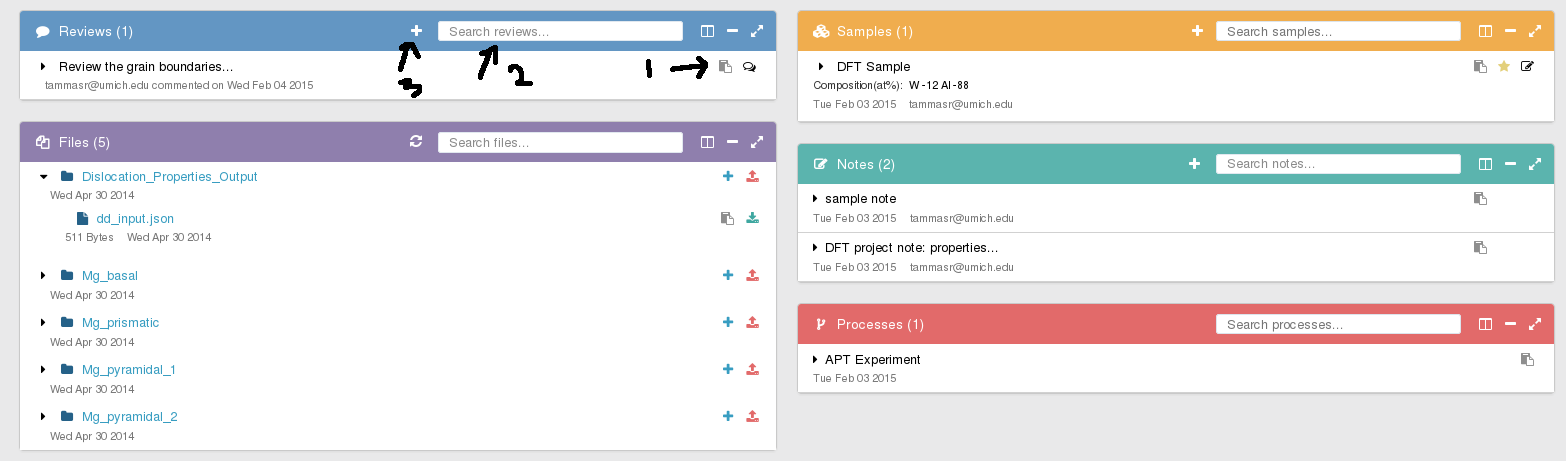
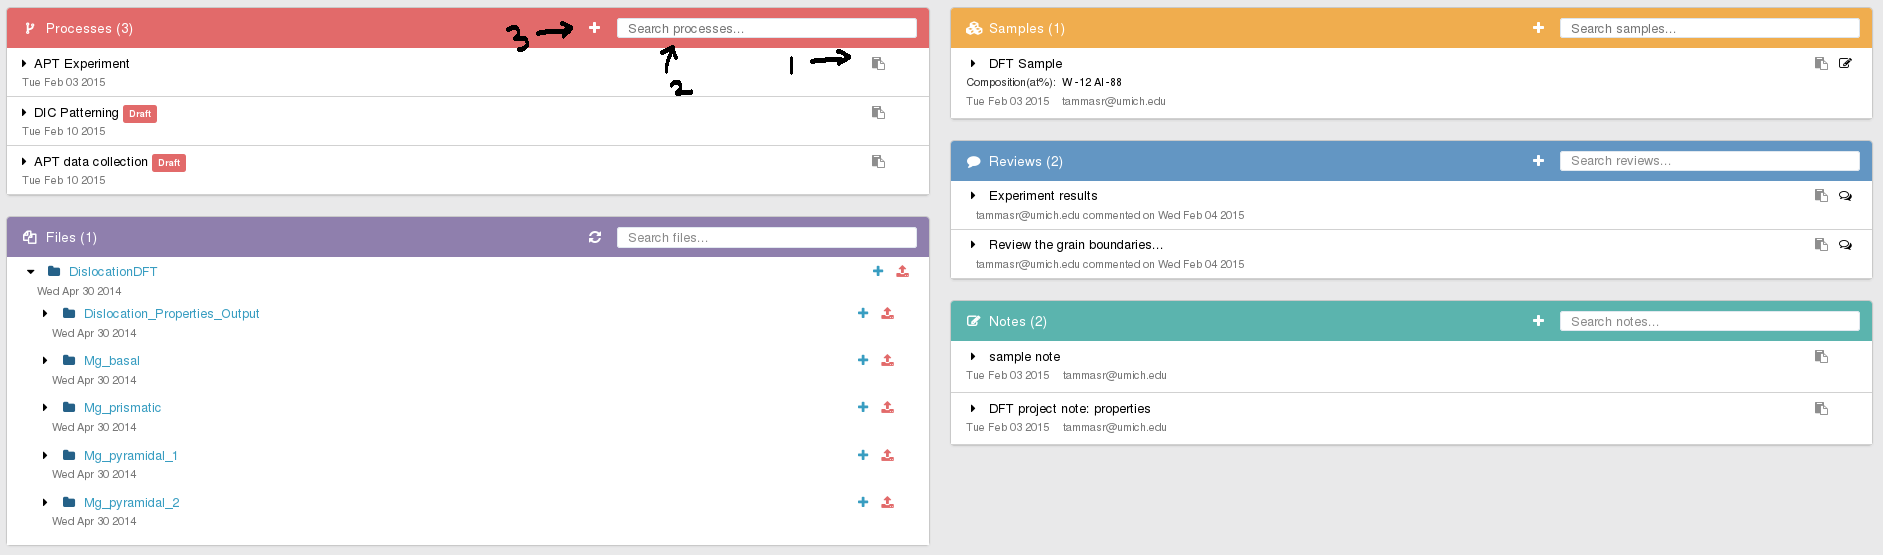
fixed type field bug and changes to the userguide

diff --git a/website/app/application/core/projects/project/help/userguide.html b/website/app/application/core/projects/project/help/userguide.html
@@ -10,7 +10,6 @@
             </a>
         </div>
         <div class="panel-body home-panel-body " style="overflow-y: auto;min-height:800px;">
-
             <div>
                 <ul class="list-group">
                     <li class="list-group-item">
@@ -19,6 +18,7 @@
 
                         <div style="padding-top: 20px;" ng-show="showNav">
                             <h4 class="text-center">Navigation Bar</h4>
+                            <hr/>
                             <b>Navigation:</b>
 
                             <div class="watermark">Draft</div>
@@ -76,7 +76,7 @@
                             <div class="watermark">Draft</div>
 
                             <div style="padding-top: 10px;padding-bottom: 10px;">
-                                <img class="img-responsive" src="assets/img/userguide/projectbar.png">
+                                <img class="img-responsive" src="assets/img/userguide/project-bar.png">
                             </div>
                             <b>Create New Project</b>
 
@@ -92,7 +92,14 @@
                             </p>
 
                             <div style="padding-top: 10px;padding-bottom: 10px;">
-                                <img class="img-responsive" src="assets/img/userguide/projectbar1.2.png">
+                                <img class="img-responsive" src="assets/img/userguide/project-bar-icons.png">
+                            </div>
+                            <b>Drafts</b>
+
+                            <p>Drafts</p>
+
+                            <div style="padding-top: 10px;padding-bottom: 10px;">
+                                <img class="img-responsive" src="assets/img/userguide/draft.png">
                             </div>
                             <b>Project Settings</b>
 
@@ -102,10 +109,9 @@
                                 shared.</p>
 
                             <div style="padding-top: 10px;padding-bottom: 10px;">
-                                <img class="img-responsive" src="assets/img/userguide/projectbar1.3.png">
+                                <img class="img-responsive" src="assets/img/userguide/access.png">
                             </div>
                             <b>Calendar</b>
-
                             <div class="watermark">Draft</div>
                             <p>
                                 Calendar helps user to keep track of the items created and how
@@ -114,7 +120,7 @@
                             </p>
 
                             <div style="padding-top: 10px;padding-bottom: 10px;">
-                                <img class="img-responsive" src="assets/img/userguide/projectbar1.4.png">
+                                <img class="img-responsive" src="assets/img/userguide/calendar.png">
                             </div>
                             <b>Panels</b>
 
@@ -174,15 +180,11 @@
                             <div class="watermark">Draft</div>
 
                             <div style="padding-top: 10px;padding-bottom: 10px;">
-                                <img class="img-responsive" src="assets/img/userguide/show-rev1.png">
+                                <img class="img-responsive" src="assets/img/userguide/show-review.png">
                             </div>
                             <p>When you click on the title, review toggles and details will be opened.
                                 You can comment on the review by clicking on the comment button.
                                 If you close the review it will be removed from the list. </p>
-
-                            <div style="padding-top: 10px;padding-bottom: 10px;">
-                                <img class="img-responsive" src="assets/img/userguide/show-rev2.png">
-                            </div>
                         </div>
                     </li>
                     <li class="list-group-item list-group-item">
@@ -196,14 +198,10 @@
                             <div class="watermark">Draft</div>
 
                             <div style="padding-top: 10px;padding-bottom: 10px;">
-                                <img class="img-responsive" src="assets/img/userguide/show-sample1.png">
+                                <img class="img-responsive" src="assets/img/userguide/show-sample.png">
                             </div>
                             <p>When you click on the sample name you can see more information about the sample.
                             </p>
-
-                            <div style="padding-top: 10px;padding-bottom: 10px;">
-                                <img class="img-responsive" src="assets/img/userguide/show-sample1.1.png">
-                            </div>
                         </div>
                     </li>
                     <li class="list-group-item list-group-item">
@@ -224,10 +222,6 @@
                             </div>
                             <p>When you click on the note title you can view detailed notes.
                             </p>
-
-                            <div style="padding-top: 10px;padding-bottom: 10px;">
-                                <img class="img-responsive" src="assets/img/userguide/show-notes1.1.png">
-                            </div>
                         </div>
                     </li>
                     <li class="list-group-item list-group-item">

diff --git a/backend/mcapi/objects.py b/backend/mcapi/objects.py
@@ -93,6 +93,7 @@ def create_object():
         sample['parent_id'] = dmutil.get_optional('parent_id', j)
         sample['path'] = dmutil.get_required('path', j)
         sample['project_id'] = dmutil.get_required('project_id', j)
+        sample['_type'] = 'sample'
         notes = dmutil.get_optional('notes', j)
         title = dmutil.get_optional('title', j)
         s = dmutil.insert_entry('samples', sample, return_created=True)

diff --git a/backend/mcapi/user/drafts.py b/backend/mcapi/user/drafts.py
@@ -80,6 +80,7 @@ def save_draft(project_id):
     else:
         j['birthtime'] = r.now()
         j['mtime'] = j['birthtime']
+        j['_type'] = 'process'
         entry = dmutil.insert_entry('drafts', j, return_created=True)
     return resp.to_json(entry)
 
